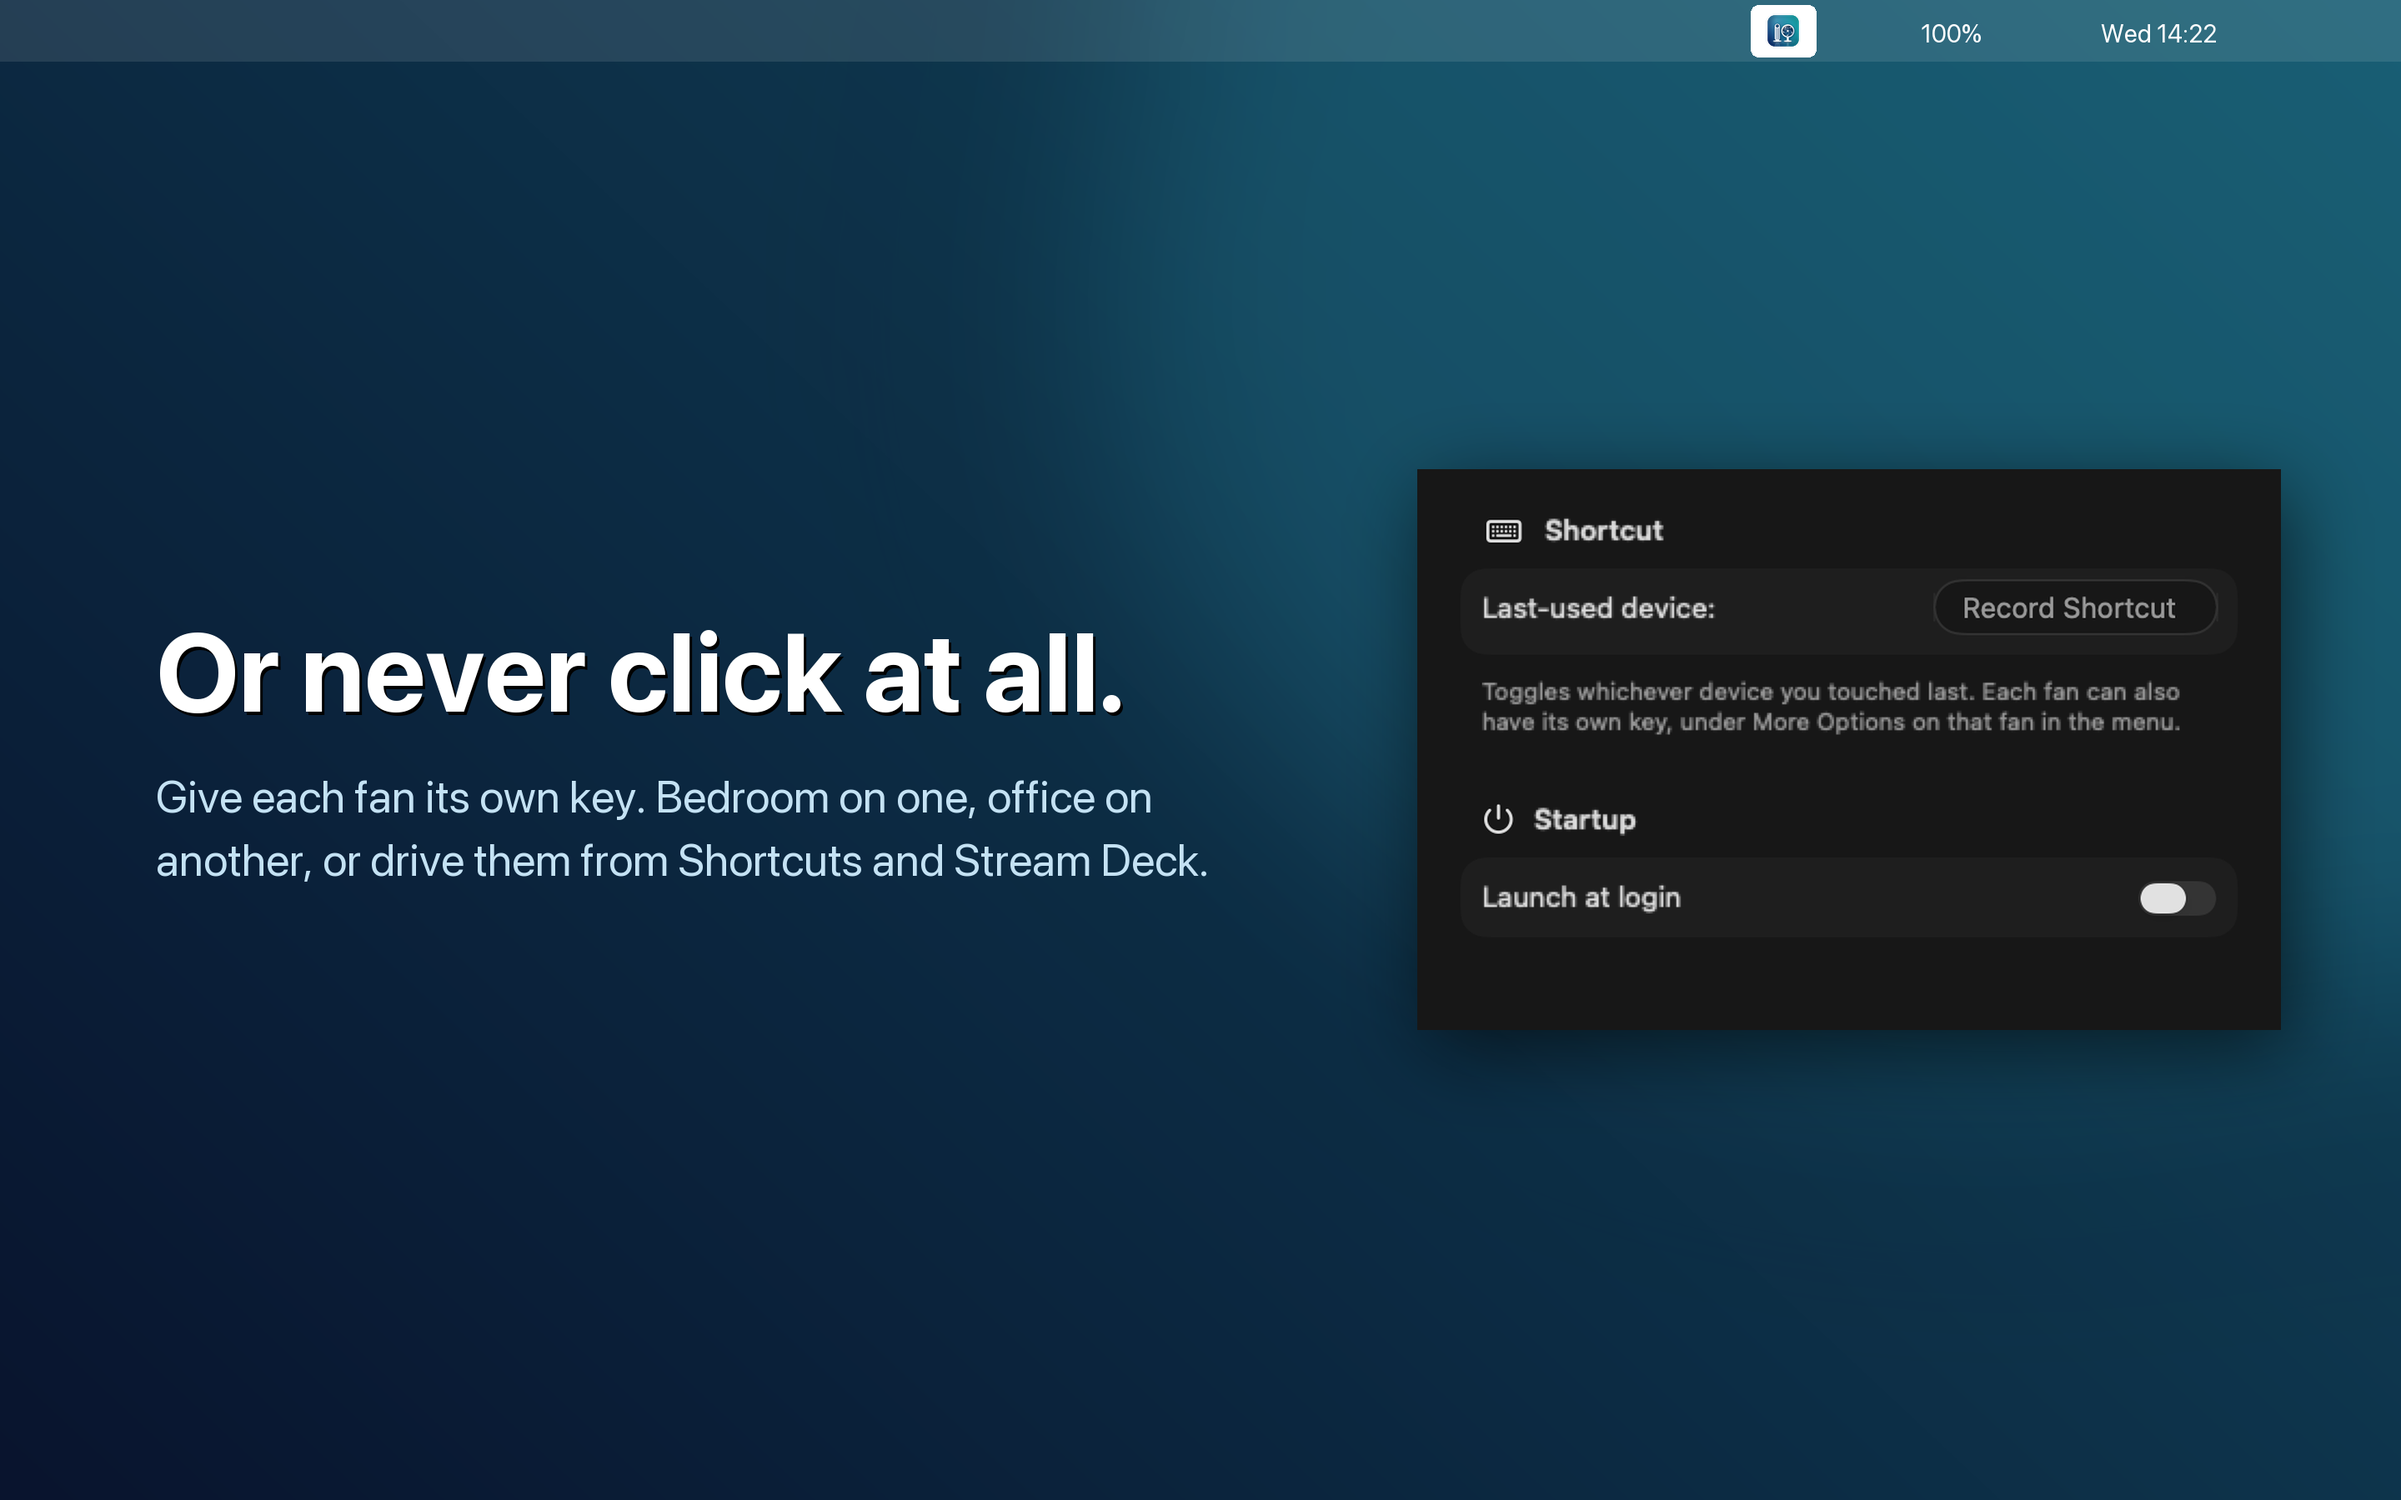
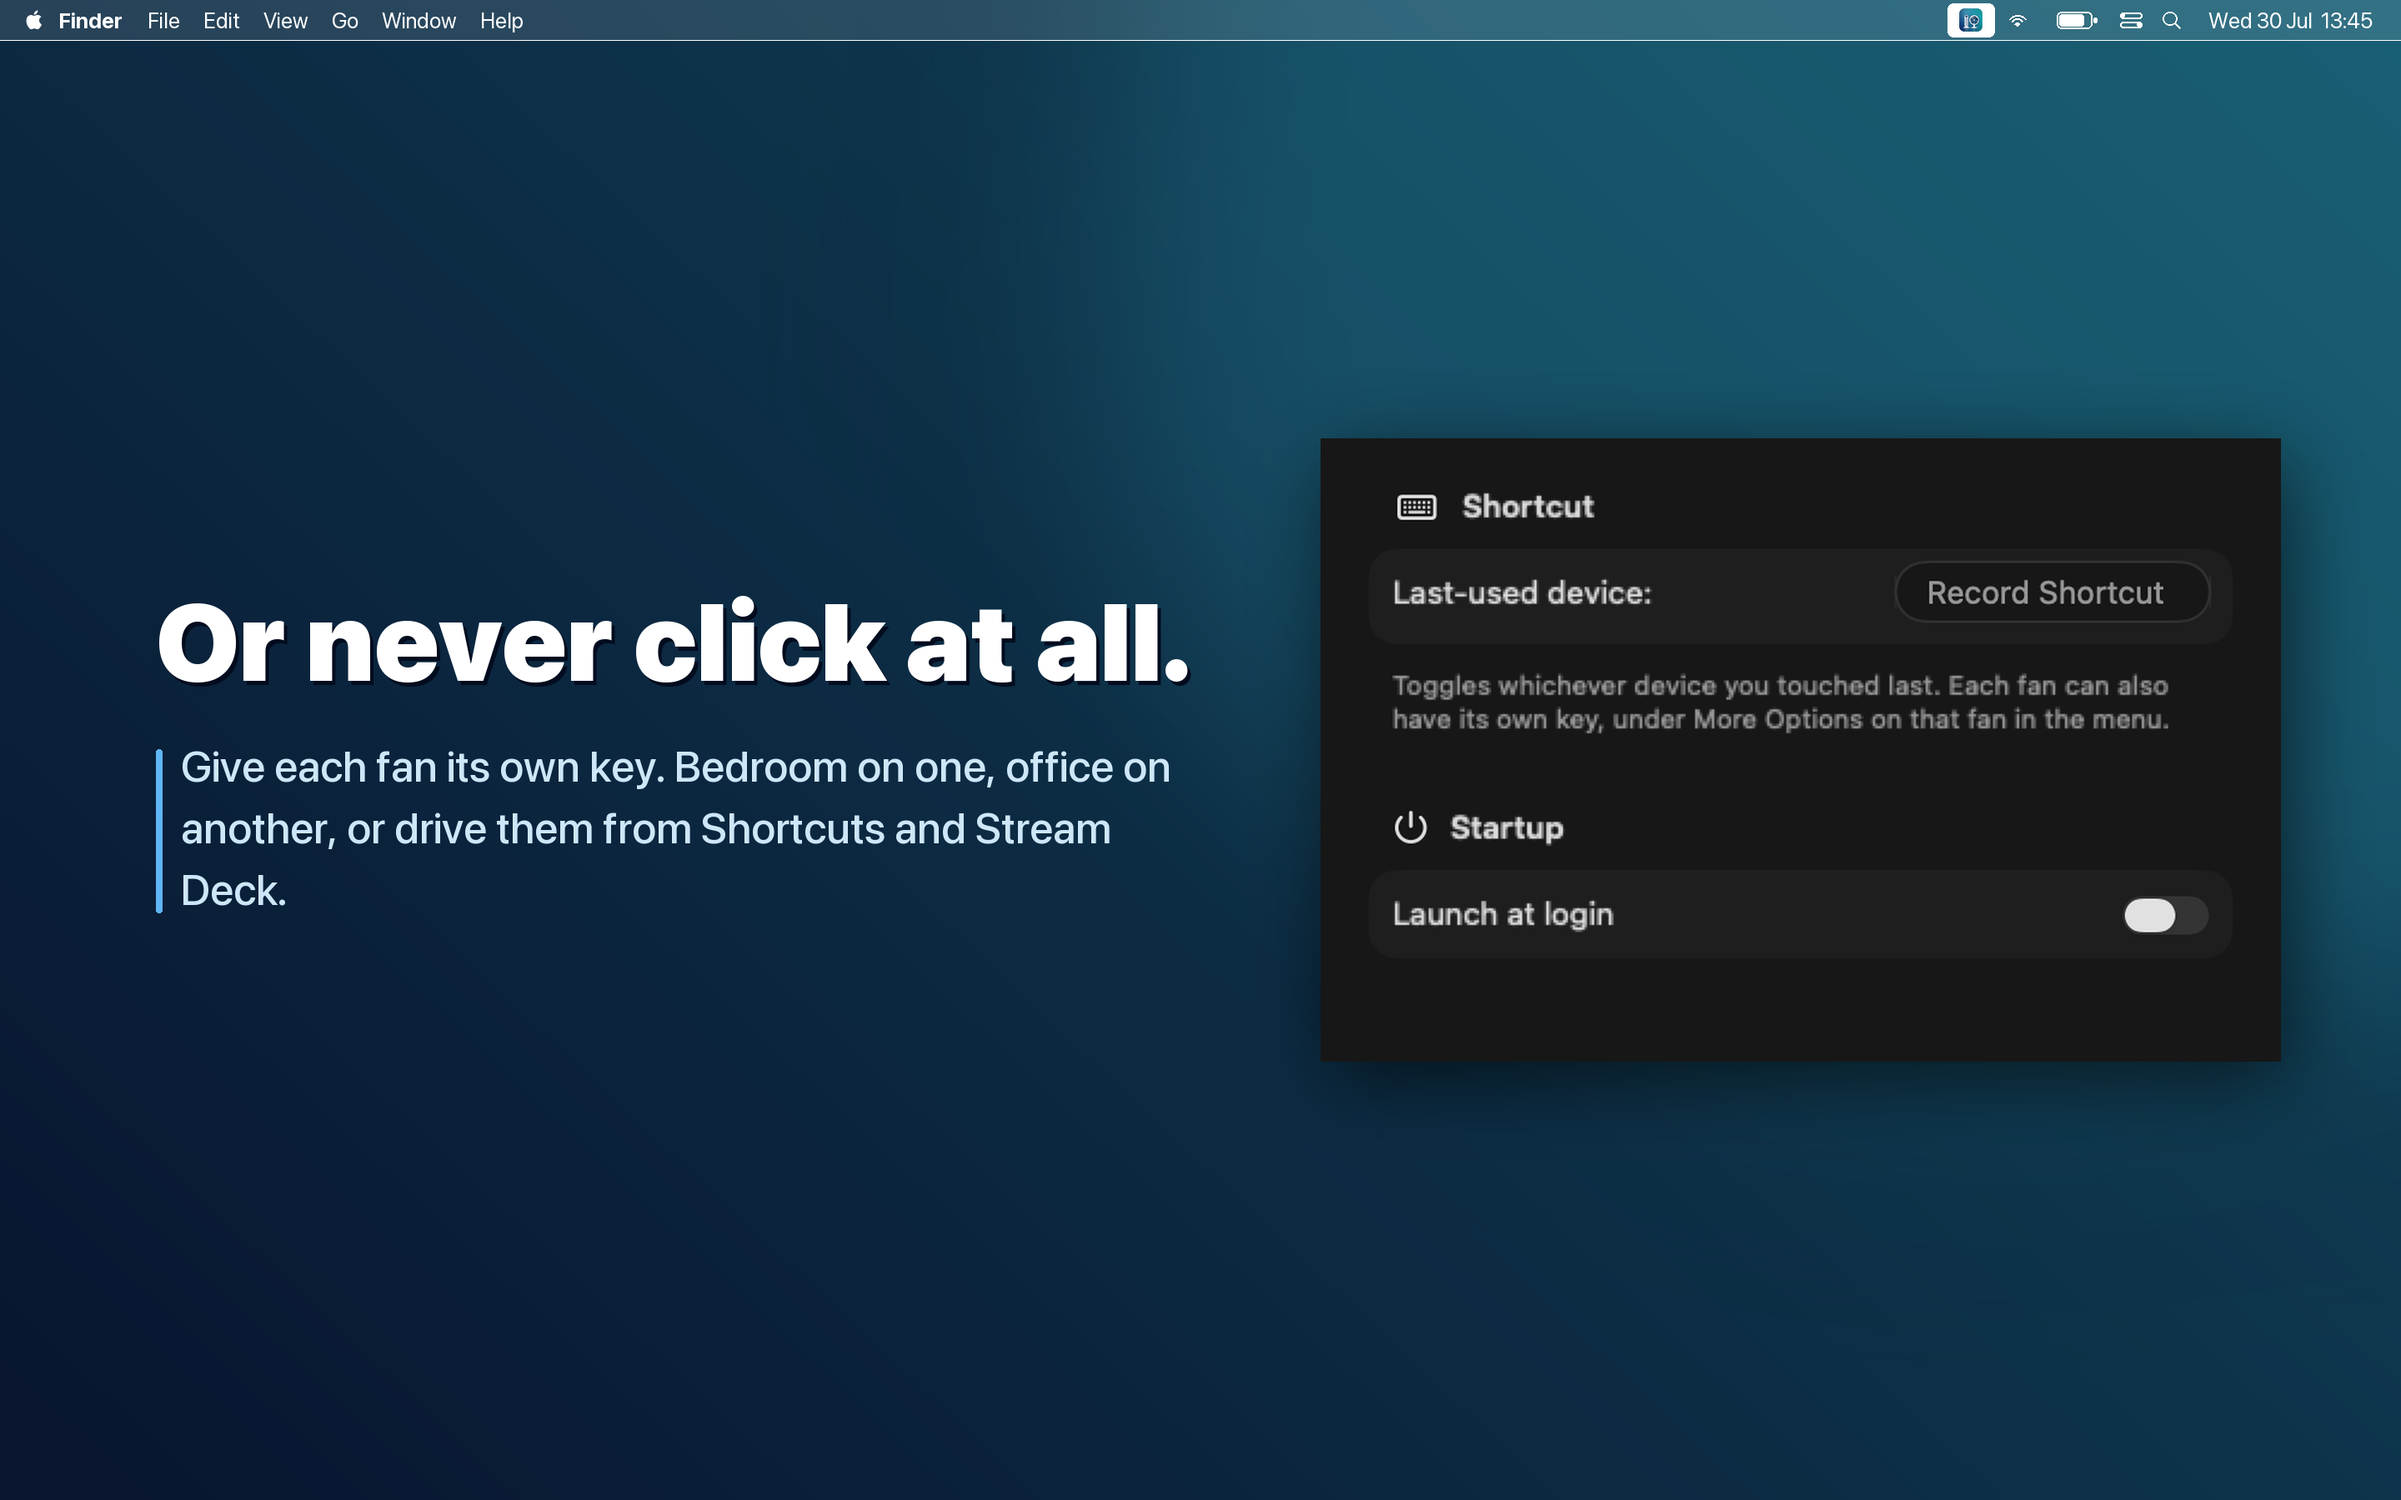
feat(store): realistic macOS menu bar and stronger type
The menu bar was a grey strip with a clock, which reads as fake to anyone
who uses a Mac. It is now 48px (24pt at 2x, the real height; the old one
was nearly double), with the Apple logo, the active app and its menus on
the left, and vectorially drawn Wi-Fi, battery, Control Center and
Spotlight glyphs on the right in the order macOS uses.

It says Finder, not Windbar, on the left. Windbar sets LSUIElement so it
has no menus and never owns the menu bar; it only ever appears as a
status item, which is what is drawn.

Type moves to SF Pro Black for headlines and Medium for subheads, with an
accent bar in the app's blue. Headlines auto-fit: at a fixed size every
caption stranded an orphan word on its own line.

diff --git a/design/make_screenshots.py b/design/make_screenshots.py
@@ -32,8 +32,7 @@ ICON = os.path.abspath(os.path.join(
     ROOT, '..', 'Windbar', 'Resources', 'Assets.xcassets',
     'AppIcon.appiconset', 'icon_512x512@2x.png'))
 
-SF_BOLD = '/System/Library/Fonts/SFNS.ttf'
-SF_REG  = '/System/Library/Fonts/SFNS.ttf'
+SF = '/System/Library/Fonts/SFNS.ttf'
 
 # Caption copy. Formula: verb + benefit + result, 3 to 6 words, benefit not feature.
 # Order matters more than anything else here: the first three frames carry roughly
@@ -54,14 +53,54 @@ CAPTIONS = [
 ]
 
 
-def font(path, size, bold=False):
-    f = ImageFont.truetype(path, size)
-    if bold:
-        try:
-            f.set_variation_by_name('Bold')
-        except Exception:
-            pass
+def font(size, weight='Regular'):
+    """SF Pro at any named weight. The variable font carries Ultralight..Black."""
+    f = ImageFont.truetype(SF, size)
+    try:
+        f.set_variation_by_name(weight)
+    except Exception:
+        pass
     return f
+
+
+def wifi(d, x, cy, w=26, colour=(255, 255, 255, 235)):
+    """Wi-Fi glyph: three arcs and a dot, drawn rather than faked with text."""
+    for i, r in enumerate((w * 0.50, w * 0.34, w * 0.18)):
+        d.arc([x - r, cy - r + w * 0.30, x + r, cy + r + w * 0.30],
+              start=218, end=322, fill=colour, width=max(2, int(w * 0.11)))
+    r = w * 0.055
+    d.ellipse([x - r, cy + w * 0.24 - r, x + r, cy + w * 0.24 + r], fill=colour)
+
+
+def battery(d, x, cy, w=42, level=0.82, colour=(255, 255, 255, 235)):
+    h = w * 0.46
+    d.rounded_rectangle([x, cy - h / 2, x + w, cy + h / 2], radius=h * 0.30,
+                        outline=colour, width=max(2, int(w * 0.05)))
+    d.rounded_rectangle([x + w + 2, cy - h * 0.16, x + w + 6, cy + h * 0.16],
+                        radius=2, fill=colour)
+    pad = w * 0.075
+    d.rounded_rectangle([x + pad, cy - h / 2 + pad,
+                         x + pad + (w - pad * 2) * level, cy + h / 2 - pad],
+                        radius=h * 0.18, fill=colour)
+
+
+def control_centre(d, x, cy, w=26, colour=(255, 255, 255, 235)):
+    """Two toggle pills, the Control Center glyph."""
+    lw = max(2, int(w * 0.10))
+    for i, knob_left in enumerate((True, False)):
+        y = cy - w * 0.20 + i * w * 0.40
+        d.rounded_rectangle([x, y - w * 0.14, x + w, y + w * 0.14],
+                            radius=w * 0.14, outline=colour, width=lw)
+        kx = x + w * 0.14 if knob_left else x + w * 0.86
+        d.ellipse([kx - w * 0.07, y - w * 0.07, kx + w * 0.07, y + w * 0.07], fill=colour)
+
+
+def spotlight(d, x, cy, w=24, colour=(255, 255, 255, 235)):
+    r = w * 0.34
+    lw = max(2, int(w * 0.10))
+    d.ellipse([x - r, cy - r - w * 0.06, x + r, cy + r - w * 0.06], outline=colour, width=lw)
+    d.line([x + r * 0.72, cy + r * 0.66 - w * 0.06,
+            x + r * 1.35, cy + r * 1.30 - w * 0.06], fill=colour, width=lw)
 
 
 def backdrop():
@@ -80,40 +119,70 @@ def backdrop():
 
 
 def menu_bar(img, icon):
-    """Translucent macOS menu bar with the Windbar icon highlighted.
+    """A real macOS menu bar, not a grey strip.
 
-    This is the bit that tells a Mac user 'menu bar app' before they read a word.
+    Height is 48px because 2880x1800 represents a 1440x900 point screen at 2x, and
+    the macOS menu bar is 24pt. The earlier 74px strip was almost twice too tall,
+    which is the kind of thing a Mac user notices without being able to name it.
+
+    The left side says "Finder", not "Windbar", and that is deliberate: Windbar sets
+    LSUIElement, so it has no menus and never owns the menu bar. It appears only as
+    a status item on the right, which is exactly what is drawn here.
     """
-    bar_h = 74
-    strip = Image.new('RGBA', (W, bar_h), (255, 255, 255, 26))
-    img.alpha_composite(strip, (0, 0))
+    BAR = 48
+    img.alpha_composite(Image.new('RGBA', (W, BAR), (250, 252, 255, 30)), (0, 0))
     d = ImageDraw.Draw(img)
+    d.line([(0, BAR), (W, BAR)], fill=(255, 255, 255, 28), width=1)
 
-    ic = icon.resize((46, 46), Image.LANCZOS)
-    ix = int(W * 0.735)
-    # Selected-item highlight, exactly what macOS shows while a popover is open.
-    d.rounded_rectangle([ix - 16, 6, ix + 62, bar_h - 6], radius=9,
-                        fill=(255, 255, 255, 62))
-    img.alpha_composite(ic, (ix, 14))
+    ink = (255, 255, 255, 240)
+    f_menu = font(26, 'Regular')
+    f_app  = font(26, 'Bold')
+    f_time = font(26, 'Regular')
 
-    f = font(SF_REG, 30)
-    for label, x in (("100%", 0.80), ("Wed 14:22", 0.875)):
-        d.text((W * x, 22), label, font=f, fill=(255, 255, 255, 210))
-    return ix + 23   # x centre of the icon, so the popover can point at it
+    # ---- left: Apple logo, active app, its menus
+    x = 30
+    d.text((x, BAR / 2), '\uf8ff', font=font(30, 'Regular'), fill=ink, anchor='lm')
+    x += 40
+    d.text((x, BAR / 2), 'Finder', font=f_app, fill=ink, anchor='lm')
+    x += d.textlength('Finder', font=f_app) + 30
+    for item in ('File', 'Edit', 'View', 'Go', 'Window', 'Help'):
+        d.text((x, BAR / 2), item, font=f_menu, fill=ink, anchor='lm')
+        x += d.textlength(item, font=f_menu) + 28
+
+    # ---- right: status items, laid out right to left in real macOS order
+    cy = BAR / 2
+    right = W - 34
+    clock = 'Wed 30 Jul  13:45'
+    d.text((right, cy), clock, font=f_time, fill=ink, anchor='rm')
+    right -= d.textlength(clock, font=f_time) + 34
+
+    spotlight(d, right - 12, cy);        right -= 46
+    control_centre(d, right - 26, cy);   right -= 60
+    battery(d, right - 42, cy);          right -= 76
+    wifi(d, right - 13, cy);             right -= 52
+
+    # ---- the app itself, highlighted the way macOS shows an open menu extra
+    ic_size = 34
+    ix = int(right - ic_size)
+    d.rounded_rectangle([ix - 11, 4, ix + ic_size + 11, BAR - 4],
+                        radius=7, fill=(255, 255, 255, 64))
+    img.alpha_composite(icon.resize((ic_size, ic_size), Image.LANCZOS),
+                        (ix, int(cy - ic_size / 2)))
+    return ix + ic_size // 2, BAR
 
 
-def paste_popover(img, shot, anchor_x):
+def paste_popover(img, shot, anchor_x, bar_h=48):
     """Drop the real capture under the menu bar icon, with a soft shadow."""
-    target_h = int(H * 0.70)
+    target_h = int(H * 0.82)
     scale = target_h / shot.height
-    if shot.width * scale > W * 0.36:                 # keep room for the caption
-        scale = (W * 0.36) / shot.width
+    if shot.width * scale > W * 0.40:                 # keep room for the caption
+        scale = (W * 0.40) / shot.width
     s = shot.resize((int(shot.width * scale), int(shot.height * scale)), Image.LANCZOS)
 
     x = int(min(max(anchor_x - s.width / 2, W * 0.60), W - s.width - W * 0.05))
     # A tall popover hangs from the menu bar the way it really does. A short
     # window (Settings) centres instead, or the frame goes bottom-heavy.
-    y = 96 if s.height > H * 0.55 else int((H - s.height) / 2)
+    y = bar_h + 14 if s.height > H * 0.55 else int((H - s.height) / 2)
     sh = Image.new('RGBA', (W, H), (0, 0, 0, 0))
     ImageDraw.Draw(sh).rounded_rectangle([x + 10, y + 22, x + s.width + 10, y + s.height + 22],
                                          radius=28, fill=(0, 0, 0, 150))
@@ -137,23 +206,50 @@ def wrap(d, text, f, max_w):
 
 
 def caption(img, head, sub, right_edge):
+    """Headline in Black, subhead in Medium.
+
+    Bold was too polite. Store screenshots get skimmed in about a second, so the
+    headline needs the heaviest weight the family has, and the subhead needs Medium
+    rather than Regular to stay legible once Apple scales the frame down in the
+    product page carousel.
+    """
     d = ImageDraw.Draw(img)
     left, max_w = int(W * 0.065), int(right_edge - W * 0.065 - W * 0.05)
-    fh, fs = font(SF_BOLD, 132, bold=True), font(SF_REG, 54)
 
-    head_lines = wrap(d, head, fh, max_w)
+    # Auto-fit the headline instead of picking a fixed size. At a fixed 146px every
+    # headline wrapped and left an orphan word on its own line ("all.", "needed.",
+    # "stays"), which looks like a mistake and costs more than the extra few points
+    # of size were worth. Shrink until the line breaks written in CAPTIONS are the
+    # only line breaks that happen.
+    head_lines = head.split('\n')
+    size = 146
+    while size > 84:
+        fh = font(size, 'Black')
+        if max(d.textlength(ln, font=fh) for ln in head_lines) <= max_w:
+            break
+        size -= 4
+    fh = font(size, 'Black')
+    fs = font(52, 'Medium')
     sub_lines  = wrap(d, sub, fs, max_w)
-    block = len(head_lines) * 150 + 46 + len(sub_lines) * 76
+    LH_H, LH_S, GAP = int(size * 1.11), 74, 52
+    block = len(head_lines) * LH_H + GAP + len(sub_lines) * LH_S
     y = (H - block) // 2
 
     for ln in head_lines:
-        d.text((left + 3, y + 4), ln, font=fh, fill=(0, 0, 0, 110))   # lift off the bg
+        # Soft shadow so white type survives the lighter areas of the backdrop.
+        d.text((left + 4, y + 5), ln, font=fh, fill=(2, 12, 30, 120))
         d.text((left, y), ln, font=fh, fill=(255, 255, 255, 255))
-        y += 150
-    y += 46
+        y += LH_H
+    y += GAP
+
+    # Accent bar ties the subhead to the app's own blue.
+    bar_top = y + 12
+    bar_bot = y + len(sub_lines) * LH_S - 14
+    d.rounded_rectangle([left, bar_top, left + 7, bar_bot], radius=4,
+                        fill=(95, 181, 247, 210))
     for ln in sub_lines:
-        d.text((left, y), ln, font=fs, fill=(196, 226, 244, 240))
-        y += 76
+        d.text((left + 30, y), ln, font=fs, fill=(206, 231, 248, 245))
+        y += LH_S
 
 
 def main():
@@ -168,8 +264,8 @@ def main():
         if not os.path.exists(src):
             print('  skip %s (no %s.png yet)' % (num, num)); continue
         img = backdrop()
-        anchor = menu_bar(img, icon)
-        x = paste_popover(img, Image.open(src).convert('RGBA'), anchor)
+        anchor, bar_h = menu_bar(img, icon)
+        x = paste_popover(img, Image.open(src).convert('RGBA'), anchor, bar_h)
         caption(img, head, sub, x)
         dest = os.path.join(OUT, '%s_windbar.png' % num)
         img.convert('RGB').save(dest, 'PNG')

diff --git a/design/SCREENSHOTS.md b/design/SCREENSHOTS.md
@@ -139,3 +139,28 @@ changed. That wastes the slots carrying most of the conversion weight. The set i
 menu bar popover, Settings shortcuts, the pairing wizard, and the real sign-in screen for the trust
 frame. Being upfront that a Dreo account is required beats a one-star review from someone who found
 out after paying.
+
+## The menu bar is drawn, and drawn accurately
+
+Early versions used a plain grey strip with the icon and a clock, which read as fake to anyone who
+uses a Mac. The bar is now a real reconstruction:
+
+- **48px tall**, because 2880x1800 represents a 1440x900 point screen at 2x and the macOS menu bar
+  is 24pt. The first attempt was 74px, nearly twice too tall. Mac users notice that without being
+  able to say why.
+- **Apple logo** (U+F8FF, which SF Pro carries), then the active app in Bold, then its menus.
+- The left side says **Finder, not Windbar**. Windbar sets `LSUIElement`, so it has no menus and
+  never owns the menu bar. It appears only as a status item on the right, which is what is drawn.
+- Status glyphs are **drawn vectorially**, not faked with text: Wi-Fi arcs, battery with fill level
+  and terminal, Control Center's two toggle pills, the Spotlight magnifier. Right-to-left order
+  matches real macOS: third-party items, Wi-Fi, battery, Control Center, Spotlight, clock.
+- The Windbar item carries the **rounded highlight** macOS shows while a menu extra is open.
+
+## Type
+
+- Headline: **SF Pro Black**, not Bold. Bold is too polite for something skimmed in a second.
+- Subhead: **Medium**, not Regular, so it survives the product page carousel shrinking the frame.
+- A thin accent bar in the app's blue ties the subhead to the brand and gives the eye a start point.
+- **The headline auto-fits.** At a fixed size every caption wrapped and stranded an orphan word on
+  its own line ("all.", "needed.", "stays"), which reads as a mistake. The size now steps down until
+  the line breaks written in `CAPTIONS` are the only breaks that happen.
